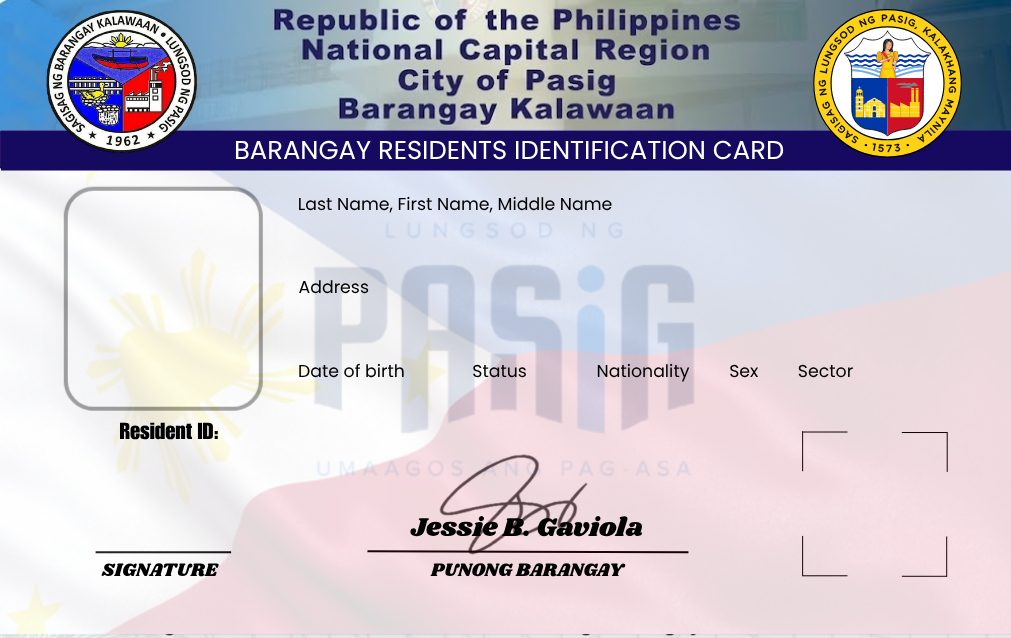
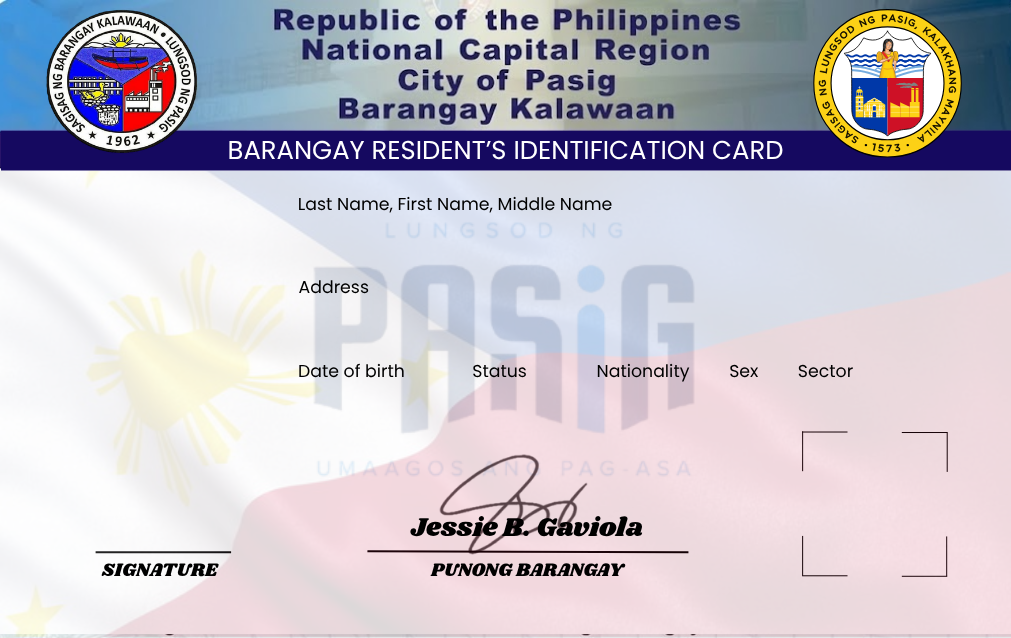
add valid until and fix overlapped image

diff --git a/resources/views/ids/create.blade.php b/resources/views/ids/create.blade.php
@@ -95,7 +95,7 @@
                             <div class="bg-white p-1 rounded" style="width: 20cqw; height: 20cqw; display: flex; align-items: center; justify-content: center; border: 0.3cqw solid #000;">
                                 <img id="preview-qr" alt="QR Code" style="width: 100%; height: 100%; object-fit: contain;">
                             </div>
-                            <div id="preview-id-no-back" class="font-monospace fw-bold text-center" style="font-size: 1.2cqw; letter-spacing: 0.1em; color: #212529; width: 20cqw; margin-top: 0.5cqw;">QR CODE</div>
+                            <div id="preview-id-no-back" class="font-monospace fw-bold text-center" style="font-size: 1.2cqw; letter-spacing: 0.1em; color: #212529; width: 20cqw; margin-top: 0.5cqw;">VALID UNTIL</div>
                         </div>
                     </div>
                 </div>
@@ -189,6 +189,7 @@ document.addEventListener('DOMContentLoaded', function() {
     const previewEcNo = document.getElementById('preview-ec-no');
     const previewQr = document.getElementById('preview-qr');
     const previewValidity = document.getElementById('preview-validity');
+    const previewIdNoBack = document.getElementById('preview-id-no-back');
 
     let currentResident = null;
     let currentID = null;
@@ -272,7 +273,7 @@ document.addEventListener('DOMContentLoaded', function() {
         previewAddress.textContent = resident.address || '-';
         
         previewEcName.textContent = resident.emergency_contact_name || '_____________________';
-        previewEcAddress.textContent = resident.emergency_contact_address || '_____________________';
+        previewEcAddress.textContent = resident.address || resident.emergency_contact_address || '_____________________';
         previewEcNo.textContent = resident.emergency_contact_no || '_____________________';
         
         // Handle emergency contact relation
@@ -295,11 +296,13 @@ document.addEventListener('DOMContentLoaded', function() {
             if (idData.qr_code) {
                 previewQr.src = idData.qr_code;
             }
-            previewValidity.textContent = idData.expiration_date;
+            previewValidity.textContent = `VALID UNTIL ${idData.expiration_date}`;
+            previewIdNoBack.textContent = `VALID UNTIL ${idData.expiration_date}`;
         } else {
             previewIdNo.textContent = 'PENDING';
             previewQr.src = '';
-            previewValidity.textContent = '-';
+            previewValidity.textContent = 'VALID UNTIL -';
+            previewIdNoBack.textContent = 'VALID UNTIL';
         }
     }
 
@@ -423,7 +426,7 @@ document.addEventListener('DOMContentLoaded', function() {
                   <div class="front-text f-status">${currentResident.civil_status || '-'}</div>
                   <div class="front-text f-sector">${sector}</div>
                   <div class="front-text f-id">${currentID.id_number || '-'}</div>
-                  <div class="front-text f-validity">${currentID.expiration_date || '-'}</div>
+                  <div class="front-text f-validity">VALID UNTIL ${currentID.expiration_date || '-'}</div>
                 </div>
 
                 <div class="id-card">
@@ -441,7 +444,7 @@ document.addEventListener('DOMContentLoaded', function() {
                         </tr>
                         <tr>
                           <td class="emergency-title" style="text-align: right; padding-right: 6px; white-space: nowrap; vertical-align: top;">ADDRESS:</td>
-                          <td class="emergency-value" style="min-height: 24px; line-height: 1.2;">${currentResident.emergency_contact_address || '_____________________'}</td>
+                          <td class="emergency-value" style="min-height: 24px; line-height: 1.2;">${currentResident.address || currentResident.emergency_contact_address || '_____________________'}</td>
                         </tr>
                         <tr>
                           <td class="emergency-title" style="text-align: right; padding-right: 6px; white-space: nowrap; vertical-align: top;">CONTACT NO.:</td>
@@ -460,7 +463,7 @@ document.addEventListener('DOMContentLoaded', function() {
                       </div>
 
                       <div class="validity-text">
-                        Valid Until<br>
+                        VALID UNTIL<br>
                         <span style="color: white">${currentID.expiration_date || 'N/A'}</span>
                       </div>
 

diff --git a/resources/views/ids/index.blade.php b/resources/views/ids/index.blade.php
@@ -51,7 +51,7 @@
                         <div style="position: absolute; left: 79.6%; top: 68.5%; width: 14%; height: 20.8%; border: 1px solid #000; background: #fff; display: flex; align-items: center; justify-content: center; padding: 2px;">
                             <img id="preview-qr-front" alt="QR Code" style="width: 100%; height: 100%; object-fit: contain; display: none;">
                         </div>
-                        <div id="preview-validity" style="position: absolute; left: 79.6%; top: 91.4%; width: 14%; font-size: 5.8px; font-weight: 800; text-align: center; color: #111; white-space: nowrap; overflow: hidden; text-overflow: clip; letter-spacing: 0;">VALID: -</div>
+                        <div id="preview-validity" style="position: absolute; left: 79.6%; top: 91.4%; width: 14%; font-size: 4.7px; font-weight: 800; text-align: center; color: #111; white-space: nowrap; overflow: hidden; text-overflow: clip; letter-spacing: -0.1px;">VALID UNTIL: -</div>
                     </div>
 
                     <!-- BACK PREVIEW -->
@@ -351,7 +351,7 @@ document.addEventListener('DOMContentLoaded', function() {
     }
 
     function formatValidityLabel(dateStr) {
-        return `VALID: ${(formatMonthYear(dateStr) || '-').toUpperCase()}`;
+        return `VALID UNTIL: ${(formatMonthYear(dateStr) || '-').toUpperCase()}`;
     }
 
     function formatDisplayName(resident) {
@@ -582,7 +582,7 @@ document.addEventListener('DOMContentLoaded', function() {
                 }
             }
             previewValidity.textContent = formatValidityLabel(idData.expiration_date);
-            applyFittedFieldFont(previewValidity, previewValidity.textContent, 5.8, 4.2, 13);
+            applyFittedFieldFont(previewValidity, previewValidity.textContent, 4.7, 3.2, 24);
         } else {
             if (previewIdNo) {
                 const pendingText = 'PENDING';
@@ -594,7 +594,7 @@ document.addEventListener('DOMContentLoaded', function() {
                 previewQrFront.style.display = 'none';
             }
             previewValidity.textContent = formatValidityLabel(FIXED_VALIDITY_DATE);
-            applyFittedFieldFont(previewValidity, previewValidity.textContent, 5.8, 4.2, 13);
+            applyFittedFieldFont(previewValidity, previewValidity.textContent, 4.7, 3.2, 24);
         }
     }
 
@@ -777,7 +777,7 @@ document.addEventListener('DOMContentLoaded', function() {
             );
             const statusFont = fitFontSize(statusPrint, 6, 4.4, 12);
             const ecAddressFont = fitFontSize(ecAddressPrint, 10, 7.2, 32);
-            const validityFont = fitFontSize(validityPrint, 4.4, 3.4, 13);
+            const validityFont = fitFontSize(validityPrint, 3.3, 2.1, 27);
             const printNameStyle = 'font-family: "Arial Black", "Segoe UI", Arial, sans-serif; color: #0a1f4d; text-shadow: 0 0 1.2px rgba(255,255,255,0.95), 0 0 0.6px rgba(255,255,255,0.9);';
             const printValueStyle = 'font-family: "Segoe UI", Arial, sans-serif; color: #101828; text-shadow: 0 0 1px rgba(255,255,255,0.95), 0 0 0.4px rgba(255,255,255,0.9);';
             const printStrongStyle = 'font-family: "Arial Black", "Segoe UI", Arial, sans-serif; color: #07193d; text-shadow: 0 0 1.2px rgba(255,255,255,0.95), 0 0 0.6px rgba(255,255,255,0.9);';
@@ -808,7 +808,7 @@ document.addEventListener('DOMContentLoaded', function() {
                                 <div style="position: absolute; left: 79.6%; top: 68.5%; width: 14%; height: 20.8%; background: #fff; display: flex; align-items: center; justify-content: center; padding: 2px;">
                                     ${currentID.qr_code ? `<img src="${currentID.qr_code}" alt="QR" style="width: 100%; height: 100%; object-fit: contain;">` : ''}
                                 </div>
-                                <div style="position: absolute; left: 79.6%; top: 92.3%; width: 14%; text-align: center; font-size: ${validityFont}px; font-weight: 800; white-space: nowrap; overflow: hidden; letter-spacing: 0; font-family: \"Segoe UI\", Arial, sans-serif; color: #111;">${validityPrint}</div>
+                                <div style="position: absolute; left: 79.6%; top: 92.3%; width: 14%; text-align: center; font-size: ${validityFont}px; font-weight: 800; white-space: nowrap; overflow: hidden; letter-spacing: -0.1px; font-family: \"Segoe UI\", Arial, sans-serif; color: #111;">${validityPrint}</div>
                             </div>
                 `;
 
